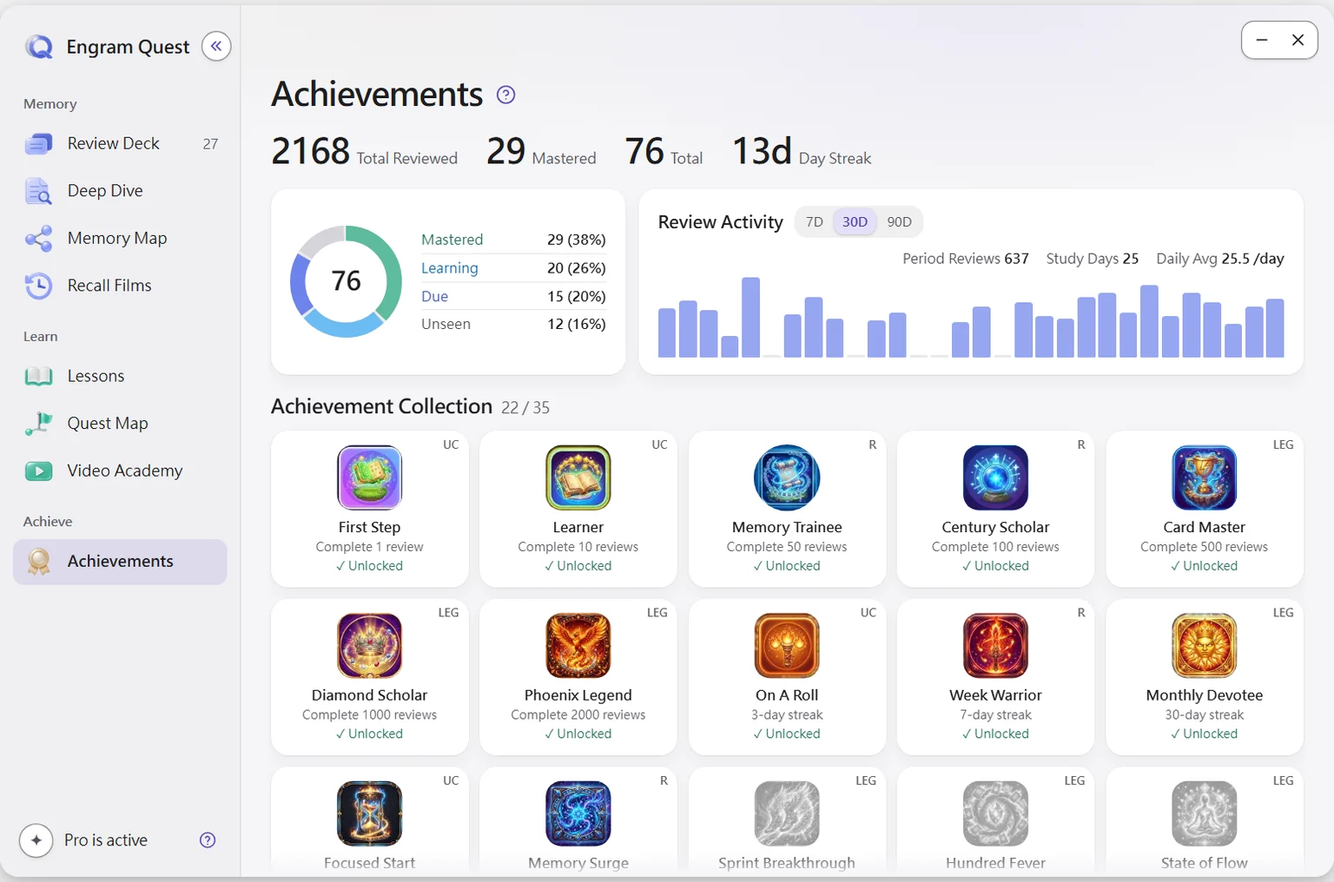
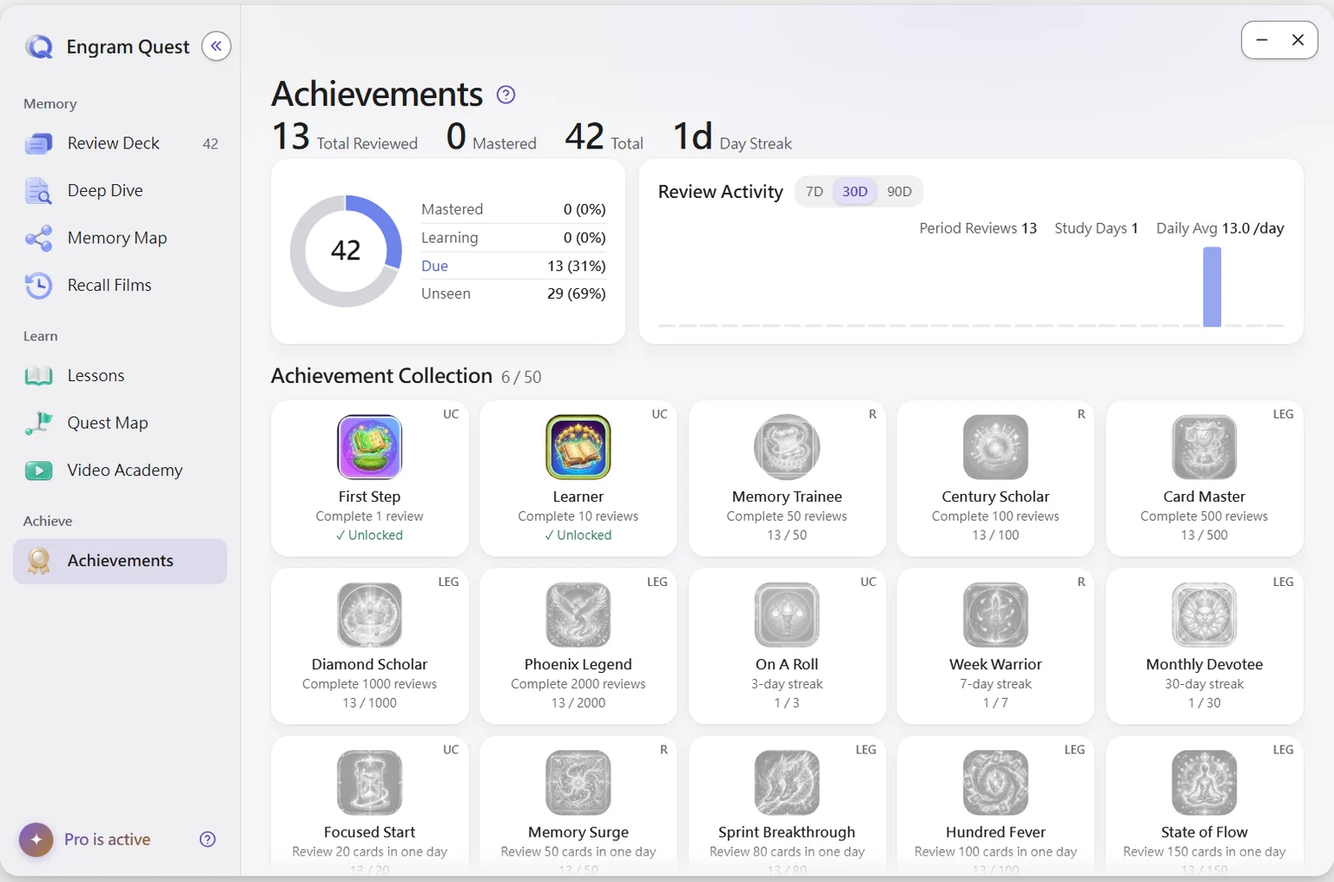
Achievements for videos, recall films, Deep Dives, Synapse and timed reviews
Fifteen new achievements count finished videos and series, recall films, three cleared quest maps,
lessons plus videos, and for Pro: Deep Dives marked done, a lesson from a Pro teacher, content opened
from Synapse, and timed review rounds finished. Pro achievements are labelled on their card.

diff --git a/src/hub/achievement.js b/src/hub/achievement.js
@@ -3,6 +3,9 @@ const I = require("obsidian");
 const { t: c } = require("../i18n");
 const { getReviewStatus } = require("../review/helpers");
 const { listCourses, courseProgress } = require("../lessons/data");
+const { listTopics, readEpisodic, videoProgress } = require("../videos/data");
+const { teacherOfVideo } = require("../videos/teachers");
+const { scanExplainers, readState } = require("../explainer/data");
 const ui = require("./ui");
 const { assetUrl } = require("../assets");
 
@@ -45,6 +48,21 @@ const ACHIEVEMENTS = [
   { id: "lesson_marathon",  icon: "assets/icons/lesson_marathon.webp",  rarity: "R",   threshold: 10,    field: "completedLessons",   nameKey: "ACH_LESSON_MARATHON_NAME",  descKey: "ACH_LESSON_MARATHON_DESC"  },
   { id: "first_quest_step", icon: "assets/icons/first_quest_step.webp", rarity: "UC",  threshold: 1,     field: "completedQuestNodes", nameKey: "ACH_FIRST_QUEST_STEP_NAME", descKey: "ACH_FIRST_QUEST_STEP_DESC" },
   { id: "quest_veteran",    icon: "assets/icons/quest_veteran.webp",    rarity: "R",   threshold: 10,    field: "completedQuestNodes", nameKey: "ACH_QUEST_VETERAN_NAME",    descKey: "ACH_QUEST_VETERAN_DESC"    },
+  { id: "first_video", icon: "assets/icons/first_video.webp", rarity: "UC", threshold: 1, field: "completedVideos", nameKey: "ACH_FIRST_VIDEO_NAME", descKey: "ACH_FIRST_VIDEO_DESC" },
+  { id: "video_trio", icon: "assets/icons/video_trio.webp", rarity: "R", threshold: 3, field: "maxVideosInSeries", nameKey: "ACH_VIDEO_TRIO_NAME", descKey: "ACH_VIDEO_TRIO_DESC" },
+  { id: "video_graduate", icon: "assets/icons/video_graduate.webp", rarity: "R", threshold: 1, field: "completedVideoSeries", nameKey: "ACH_VIDEO_GRADUATE_NAME", descKey: "ACH_VIDEO_GRADUATE_DESC" },
+  { id: "video_regular", icon: "assets/icons/video_regular.webp", rarity: "R", threshold: 10, field: "completedVideos", nameKey: "ACH_VIDEO_REGULAR_NAME", descKey: "ACH_VIDEO_REGULAR_DESC" },
+  { id: "video_explorer", icon: "assets/icons/video_explorer.webp", rarity: "R", threshold: 3, field: "startedVideoSeries", nameKey: "ACH_VIDEO_EXPLORER_NAME", descKey: "ACH_VIDEO_EXPLORER_DESC" },
+  { id: "first_recall_film", icon: "assets/icons/first_recall_film.webp", rarity: "UC", threshold: 1, field: "completedRecallFilms", nameKey: "ACH_FIRST_RECALL_FILM_NAME", descKey: "ACH_FIRST_RECALL_FILM_DESC" },
+  { id: "recall_collection", icon: "assets/icons/recall_collection.webp", rarity: "R", threshold: 3, field: "starredCompletedRecallFilms", nameKey: "ACH_RECALL_COLLECTION_NAME", descKey: "ACH_RECALL_COLLECTION_DESC" },
+  { id: "quest_trilogy", icon: "assets/icons/quest_trilogy.webp", rarity: "LEG", threshold: 3, field: "clearedQuestCount", nameKey: "ACH_QUEST_TRILOGY_NAME", descKey: "ACH_QUEST_TRILOGY_DESC" },
+  { id: "mixed_media", icon: "assets/icons/mixed_media.webp", rarity: "R", threshold: 2, field: "completedMediaTypes", nameKey: "ACH_MIXED_MEDIA_NAME", descKey: "ACH_MIXED_MEDIA_DESC" },
+  { id: "first_deep_dive", pro: true, icon: "assets/icons/first_deep_dive.webp", rarity: "UC", threshold: 1, field: "completedDeepDives", nameKey: "ACH_FIRST_DEEP_DIVE_NAME", descKey: "ACH_FIRST_DEEP_DIVE_DESC" },
+  { id: "deep_dive_five", pro: true, icon: "assets/icons/deep_dive_five.webp", rarity: "R", threshold: 5, field: "completedDeepDives", nameKey: "ACH_DEEP_DIVE_FIVE_NAME", descKey: "ACH_DEEP_DIVE_FIVE_DESC" },
+  { id: "pro_teacher_lesson", pro: true, icon: "assets/icons/pro_teacher_lesson.webp", rarity: "R", threshold: 1, field: "completedProTeacherVideos", nameKey: "ACH_PRO_TEACHER_LESSON_NAME", descKey: "ACH_PRO_TEACHER_LESSON_DESC" },
+  { id: "synapse_exploration", pro: true, icon: "assets/icons/synapse_exploration.webp", rarity: "UC", threshold: 1, field: "synapseContentOpens", nameKey: "ACH_SYNAPSE_EXPLORATION_NAME", descKey: "ACH_SYNAPSE_EXPLORATION_DESC" },
+  { id: "timebox_round", pro: true, icon: "assets/icons/timebox_round.webp", rarity: "UC", threshold: 1, field: "completedTimeboxes", nameKey: "ACH_TIMEBOX_ROUND_NAME", descKey: "ACH_TIMEBOX_ROUND_DESC" },
+  { id: "timebox_habit", pro: true, icon: "assets/icons/timebox_habit.webp", rarity: "R", threshold: 5, field: "completedTimeboxes", nameKey: "ACH_TIMEBOX_HABIT_NAME", descKey: "ACH_TIMEBOX_HABIT_DESC" },
 ];
 
 const RARITY_DARK = {
@@ -112,7 +130,7 @@ function openAchievementDetail(plugin, ach, val) {
   const modal = ui.themedModal(new I.Modal(plugin.app));
   modal.modalEl.addClass("lh-ach-modal");
   const el = modal.contentEl;
-  el.createEl("div", { cls: "lh-ach-rar", text: ach.rarity });
+  el.createEl("div", { cls: "lh-ach-rar", text: ach.pro ? `Pro · ${ach.rarity}` : ach.rarity });
   addAchievementIcon(el.createEl("div", { cls: "lh-ach-img" + achievementClass(ach, isUnlocked) }), plugin, ach);
   el.createEl("div", { cls: "lh-confirm-title", text: c(t, ach.nameKey) });
   el.createEl("div", { cls: "lh-confirm-body", text: c(t, ach.descKey) });
@@ -123,7 +141,12 @@ function openAchievementDetail(plugin, ach, val) {
   modal.open();
 }
 
-function buildAchievementEvalCtx(st = {}, decks = [], quests = [], memories = [], courses = []) {
+function playableVideos(meta) {
+  return [...new Map((meta?.videos || []).filter(video => video.id && video.file)
+    .map(video => [video.id, video])).values()];
+}
+
+function buildAchievementEvalCtx(st = {}, decks = [], quests = [], memories = [], courses = [], content = {}) {
   let masteredTotal = 0;
   const counts = { mastered: 0, learning: 0, due: 0, unseen: 0, total: 0 };
   for (const deck of decks) {
@@ -156,8 +179,35 @@ function buildAchievementEvalCtx(st = {}, decks = [], quests = [], memories = []
     return sum;
   }, 0);
 
+  const videoStats = {
+    completedVideos: 0, completedVideoSeries: 0, maxVideosInSeries: 0,
+    startedVideoSeries: 0, completedProTeacherVideos: 0,
+  };
+  for (const { meta } of content.videoTopics || []) {
+    const videos = playableVideos(meta);
+    const done = videos.filter(video => videoProgress(meta, video.id).completed);
+    videoStats.completedVideos += done.length;
+    videoStats.maxVideosInSeries = Math.max(videoStats.maxVideosInSeries, done.length);
+    if (done.length > 0) videoStats.startedVideoSeries++;
+    if (videos.length >= 2 && done.length === videos.length) videoStats.completedVideoSeries++;
+    videoStats.completedProTeacherVideos += done.filter(video =>
+      teacherOfVideo(video.cast?.teacher)?.tier === "pro").length;
+  }
+
+  const recall = content.recallMeta;
+  const finishedRecall = playableVideos(recall).map(video => videoProgress(recall, video.id))
+    .filter(progress => progress.completed);
+  const deepDiveIds = new Set((content.deepDivePages || []).map(page => page.id).filter(Boolean));
+
   return {
     evalCtx: {
+      ...videoStats,
+      completedRecallFilms: finishedRecall.length,
+      starredCompletedRecallFilms: finishedRecall.filter(progress => progress.starred).length,
+      completedMediaTypes: Number(completedLessons > 0) + Number(videoStats.completedVideos > 0),
+      completedDeepDives: [...deepDiveIds].filter(id => content.deepDiveState?.[id]?.completed).length,
+      synapseContentOpens: st.synapseContentOpens || 0,
+      completedTimeboxes: st.completedTimeboxes || 0,
       totalCardsReviewed: st.totalCardsReviewed || 0,
       longestStreak: st.longestStreak || 0,
       maxDaily,
@@ -180,18 +230,33 @@ function buildAchievementEvalCtx(st = {}, decks = [], quests = [], memories = []
   };
 }
 
-async function renderAchievementTab(containerEl, plugin, decks, quests = [], memories = [], courses = null) {
-  if (!courses) {
+async function renderAchievementTab(parent, plugin, decks, quests = [], memories = [], courses = null) {
+  const containerEl = parent.createDiv({ cls: "lh-achievement-page" });
+  const loading = containerEl.createDiv({ cls: "lh-loading" });
+  loading.createDiv({ cls: "lh-spinner" });
+  const adapter = plugin.app.vault.adapter;
+  const load = async (label, read, fallback) => {
     try {
-      courses = await listCourses(plugin.app.vault.adapter);
-    } catch (e) {
-      console.warn("EngramQuest: lesson achievements scan failed", e);
-      courses = [];
+      return await read(adapter);
+    } catch (error) {
+      console.warn(`EngramQuest: ${label} achievements scan failed`, error);
+      return fallback;
     }
-  }
+  };
+  const [courseItems, videoTopics, recall, deepDives, deepDiveState] = await Promise.all([
+    courses || load("lesson", listCourses, []),
+    load("video", listTopics, []),
+    load("recall film", readEpisodic, null),
+    load("Deep Dive", scanExplainers, null),
+    load("Deep Dive progress", readState, {}),
+  ]);
+  if (!containerEl.isConnected) return;
+  loading.remove();
   const t = plugin.settings;
   const { evalCtx, counts, dailyLog, totalReviewed, currentStreak } =
-    buildAchievementEvalCtx(t._stats || {}, decks, quests, memories, courses);
+    buildAchievementEvalCtx(t._stats || {}, decks, quests, memories, courseItems, {
+      videoTopics, recallMeta: recall?.meta, deepDivePages: deepDives?.pages, deepDiveState,
+    });
 
   if (!ui.isPhone()) ui.pageHeader(containerEl, { app: plugin.app, plugin }, { titleKey: "TAB_ACHIEVEMENT", guide: "achievement" });
   ui.metrics(containerEl, [
@@ -228,7 +293,7 @@ async function renderAchievementTab(containerEl, plugin, decks, quests = [], mem
     const val = evalCtx[ach.field] || 0;
     const isUnlocked = val >= ach.threshold;
     const card = grid.createEl("div", { cls: "lh-ac" + achievementClass(ach, isUnlocked), attr: { role: "button", tabindex: "0" } });
-    card.createEl("span", { cls: "lh-ach-rar", text: ach.rarity });
+    card.createEl("span", { cls: "lh-ach-rar", text: ach.pro ? `Pro · ${ach.rarity}` : ach.rarity });
     addAchievementIcon(card, plugin, ach);
     card.createEl("b", { text: c(t, ach.nameKey) });
     card.createEl("small", { text: c(t, ach.descKey) });

diff --git a/src/hub/modal.js b/src/hub/modal.js
@@ -79,7 +79,7 @@ _studyAll(){let t=this.plugin.settings,p=this.decks.flatMap(g=>g.cards).filter(g
 _resumeLink(parent){let t=this.plugin.settings,_rp=t._reviewProgress;if(!_rp||!_rp.deck)return null;let _left=((this.decks.find(dk=>dk.name===_rp.deck)||{}).cards||[]).filter(g=>{let E=$(g.srMeta);return E==="due"||E==="unseen"}).length;if(!_left)return null;let b=parent.createEl("button",{cls:"lh-link"});b.createEl("span",{text:`${c(t,"RESUME")} ${_rp.deck.split("/").pop()} · ${c(t,"RESUME_LEFT").replace("{count}",String(_left))}`});_uiIcon(b,"chevron");b.addEventListener("click",()=>{let _deck=this.decks.find(dk=>dk.name===_rp.deck);if(_deck)this._startDeckReview(_deck);});return b;}
 _maybeShowIntro(){return _maybeShowIntro(this);}
 _maybeShowGuide(tab){_maybeShowTabGuide(this,tab);}
-_minimize(){if(this._minimized)return;this._minimized=true;this.containerEl.classList.add("lh-minimized");try{this.app.keymap.popScope(this.scope);}catch(e){}if(this._fab)return;this._fab=ui.restoreButton(this.plugin,c(this.plugin.settings,"HUB_RESTORE"),()=>this._restore());}_restore(){if(!this._minimized)return;this._minimized=false;this.containerEl.classList.remove("lh-minimized");try{this.app.keymap.pushScope(this.scope);}catch(e){}if(this._fab){this._fab.remove();this._fab=null;}if(["quest","memory"].includes(this.activeTab)){this._libraryReady=null;this.loadLibrary().then(()=>{if(this._hubOpen)this.render();}).catch(err=>console.warn("EngramQuest: restore reload failed",err));}}onClose(){this._closed=true;this._hubOpen=false;if(this._stopLicenseWatch){this._stopLicenseWatch();this._stopLicenseWatch=null;}if(this._stopRailWatch){this._stopRailWatch();this._stopRailWatch=null;}if(this._guideTimer){window.clearTimeout(this._guideTimer);this._guideTimer=null;}if(this._fab){this._fab.remove();this._fab=null;}this._minimized=false;if(this._tagFilterCleanups){this._tagFilterCleanups.forEach(fn=>fn());this._tagFilterCleanups=[];}}_confirmDelete(item,type){const t=this.plugin.settings;let displayName,filesToTrash;if(type==='quest'){displayName=item.file.basename.replace(/-quest$/,'');filesToTrash=[item.file];}else if(type==='quest-package'){displayName=item.title||item.slug;filesToTrash=[];}else if(type==='memory'){displayName=item.baseName;filesToTrash=[item.file];}else if(type==='deck'){displayName=item.name;filesToTrash=[...new Set(item.cards.map(card=>card.notePath).filter(Boolean))];}let bodyText;if(type==='deck'){bodyText=c(t,'DELETE_CONFIRM_DECK').replace('{count}',String(filesToTrash.length)).replace('{cards}',String(item.cards.length));}else{bodyText=c(t,'DELETE_CONFIRM_FILE');}ui.confirmDialog(this.app,t,{title:c(t,'DELETE_CONFIRM_TITLE').replace('{name}',displayName),body:bodyText,onConfirm:async()=>{try{if(type==='deck'){await deleteDeckCards(this.app,item);}else if(type==='quest-package'){await deleteQuestPackage(this.app,item);}else{for(const f of filesToTrash){if(f)await this.app.fileManager.trashFile(f);}}if(type==='quest'){await trashQuestProgress(this.app,item.stateKey||(item.file&&item.file.path));}await (type==='deck'?this.loadDecks():this.loadLibrary());this.render();}catch(err){console.error("EngramQuest: delete failed",err);new I.Notice(c(t,"DELETE_FAILED"));try{await this.loadData();this.render();}catch(e){console.warn("EngramQuest: reload after a failed delete failed",e);}}}});}_startDeckReview(e){let t=this.plugin.settings,r=e.cards.filter(s=>{let l=$(s.srMeta);return l==="due"||l==="unseen"});const backToHub=async()=>{new n(this.app,this.plugin).open()};if(r.length===0){this.close(),new Q(this.app,e.cards,e.name,this.plugin,backToHub,{browseOnly:!0,noResume:!!e.noResume}).open();return}r.sort((s,l)=>($(s.srMeta)==="due"?0:1)-($(l.srMeta)==="due"?0:1));this.close();new Q(this.app,r,e.name,this.plugin,backToHub,{noResume:!!e.noResume}).open()}_sortItems(arr,key,completedLast){let cmp=key==="newest"?(a,b)=>b.ctime-a.ctime:key==="oldest"?(a,b)=>a.ctime-b.ctime:(a,b)=>a.file.basename.localeCompare(b.file.basename);if(completedLast)return arr.sort((a,b)=>(a.completed?1:0)-(b.completed?1:0)||cmp(a,b));return arr.sort(cmp)}_renderExplainerTab(e){_renderExplainerTabFn(e,this);}_renderLessonTab(e){_renderLessonTabFn(e,this);}_renderAchievementTab(e){_renderAchTabFn(e,this.plugin,this.decks,this.quests,this.memories,this.courses)}
+_minimize(){if(this._minimized)return;this._minimized=true;this.containerEl.classList.add("lh-minimized");try{this.app.keymap.popScope(this.scope);}catch(e){}if(this._fab)return;this._fab=ui.restoreButton(this.plugin,c(this.plugin.settings,"HUB_RESTORE"),()=>this._restore());}_restore(){if(!this._minimized)return;this._minimized=false;this.containerEl.classList.remove("lh-minimized");try{this.app.keymap.pushScope(this.scope);}catch(e){}if(this._fab){this._fab.remove();this._fab=null;}if(["quest","memory"].includes(this.activeTab)){this._libraryReady=null;this.loadLibrary().then(()=>{if(this._hubOpen)this.render();}).catch(err=>console.warn("EngramQuest: restore reload failed",err));}}onClose(){this._closed=true;this._hubOpen=false;if(this._stopLicenseWatch){this._stopLicenseWatch();this._stopLicenseWatch=null;}if(this._stopRailWatch){this._stopRailWatch();this._stopRailWatch=null;}if(this._guideTimer){window.clearTimeout(this._guideTimer);this._guideTimer=null;}if(this._fab){this._fab.remove();this._fab=null;}this._minimized=false;if(this._tagFilterCleanups){this._tagFilterCleanups.forEach(fn=>fn());this._tagFilterCleanups=[];}}_confirmDelete(item,type){const t=this.plugin.settings;let displayName,filesToTrash;if(type==='quest'){displayName=item.file.basename.replace(/-quest$/,'');filesToTrash=[item.file];}else if(type==='quest-package'){displayName=item.title||item.slug;filesToTrash=[];}else if(type==='memory'){displayName=item.baseName;filesToTrash=[item.file];}else if(type==='deck'){displayName=item.name;filesToTrash=[...new Set(item.cards.map(card=>card.notePath).filter(Boolean))];}let bodyText;if(type==='deck'){bodyText=c(t,'DELETE_CONFIRM_DECK').replace('{count}',String(filesToTrash.length)).replace('{cards}',String(item.cards.length));}else{bodyText=c(t,'DELETE_CONFIRM_FILE');}ui.confirmDialog(this.app,t,{title:c(t,'DELETE_CONFIRM_TITLE').replace('{name}',displayName),body:bodyText,onConfirm:async()=>{try{if(type==='deck'){await deleteDeckCards(this.app,item);}else if(type==='quest-package'){await deleteQuestPackage(this.app,item);}else{for(const f of filesToTrash){if(f)await this.app.fileManager.trashFile(f);}}if(type==='quest'){await trashQuestProgress(this.app,item.stateKey||(item.file&&item.file.path));}await (type==='deck'?this.loadDecks():this.loadLibrary());this.render();}catch(err){console.error("EngramQuest: delete failed",err);new I.Notice(c(t,"DELETE_FAILED"));try{await this.loadData();this.render();}catch(e){console.warn("EngramQuest: reload after a failed delete failed",e);}}}});}_startDeckReview(e){let t=this.plugin.settings,r=e.cards.filter(s=>{let l=$(s.srMeta);return l==="due"||l==="unseen"});const backToHub=async()=>{new n(this.app,this.plugin).open()};if(r.length===0){this.close(),new Q(this.app,e.cards,e.name,this.plugin,backToHub,{browseOnly:!0,noResume:!!e.noResume}).open();return}r.sort((s,l)=>($(s.srMeta)==="due"?0:1)-($(l.srMeta)==="due"?0:1));this.close();new Q(this.app,r,e.name,this.plugin,backToHub,{noResume:!!e.noResume}).open()}_sortItems(arr,key,completedLast){let cmp=key==="newest"?(a,b)=>b.ctime-a.ctime:key==="oldest"?(a,b)=>a.ctime-b.ctime:(a,b)=>a.file.basename.localeCompare(b.file.basename);if(completedLast)return arr.sort((a,b)=>(a.completed?1:0)-(b.completed?1:0)||cmp(a,b));return arr.sort(cmp)}_renderExplainerTab(e){_renderExplainerTabFn(e,this);}_renderLessonTab(e){_renderLessonTabFn(e,this);}_renderAchievementTab(e){_renderAchTabFn(e,this.plugin,this.decks,this.quests,this.memories,this.courses).catch(err=>console.error("EngramQuest: achievement tab render failed",err))}
 _buildTree(items, getPathFn) {
     let root = { name: "Root", children: {}, items: [] };
     items.forEach(item => {

diff --git a/src/i18n/index.js b/src/i18n/index.js
@@ -686,6 +686,36 @@ const DICT = {
     ACH_PERFECT_SESSION_DESC: "20 correct cards in a row without Again",
     ACH_HUNDRED_AGAIN_NAME: "Rising to the Challenge",
     ACH_HUNDRED_AGAIN_DESC: "Tap Again 100 times total",
+    ACH_FIRST_VIDEO_NAME: "First Video Lesson",
+    ACH_FIRST_VIDEO_DESC: "Complete one Video Academy video",
+    ACH_VIDEO_TRIO_NAME: "Three Lessons In",
+    ACH_VIDEO_TRIO_DESC: "Complete 3 videos in one series",
+    ACH_VIDEO_GRADUATE_NAME: "Series Graduate",
+    ACH_VIDEO_GRADUATE_DESC: "Complete every video in a series with at least 2 videos",
+    ACH_VIDEO_REGULAR_NAME: "Video Regular",
+    ACH_VIDEO_REGULAR_DESC: "Complete 10 Video Academy videos",
+    ACH_VIDEO_EXPLORER_NAME: "Topic Explorer",
+    ACH_VIDEO_EXPLORER_DESC: "Complete at least one video in each of 3 series",
+    ACH_FIRST_RECALL_FILM_NAME: "Back to the Scene",
+    ACH_FIRST_RECALL_FILM_DESC: "Complete one Recall Film",
+    ACH_RECALL_COLLECTION_NAME: "Memory Collection",
+    ACH_RECALL_COLLECTION_DESC: "Complete and star 3 Recall Films",
+    ACH_QUEST_TRILOGY_NAME: "Three-Map Expedition",
+    ACH_QUEST_TRILOGY_DESC: "Clear 3 different Quest Maps",
+    ACH_MIXED_MEDIA_NAME: "Across Formats",
+    ACH_MIXED_MEDIA_DESC: "Complete one lesson and one Video Academy video",
+    ACH_FIRST_DEEP_DIVE_NAME: "First Deep Dive",
+    ACH_FIRST_DEEP_DIVE_DESC: "Mark one Deep Dive complete",
+    ACH_DEEP_DIVE_FIVE_NAME: "Under the Surface",
+    ACH_DEEP_DIVE_FIVE_DESC: "Mark 5 different Deep Dives complete",
+    ACH_PRO_TEACHER_LESSON_NAME: "A Masterclass",
+    ACH_PRO_TEACHER_LESSON_DESC: "Complete a Video Academy video taught by a built-in Pro teacher",
+    ACH_SYNAPSE_EXPLORATION_NAME: "Follow the Link",
+    ACH_SYNAPSE_EXPLORATION_DESC: "Open related content once through Synapse",
+    ACH_TIMEBOX_ROUND_NAME: "A Focused Round",
+    ACH_TIMEBOX_ROUND_DESC: "Finish one time-boxed review with at least one card rated",
+    ACH_TIMEBOX_HABIT_NAME: "Focused Habit",
+    ACH_TIMEBOX_HABIT_DESC: "Finish 5 time-boxed reviews with at least one card rated in each",
     ACH_FIRST_LESSON_NAME: "First Lesson",
     ACH_FIRST_LESSON_DESC: "Complete 1 lesson",
     ACH_COURSE_FINISHER_NAME: "Course Finisher",
@@ -1383,6 +1413,36 @@ const DICT = {
     ACH_PERFECT_SESSION_DESC: "單次複習連續 20 張未選「重來」",
     ACH_HUNDRED_AGAIN_NAME: "浴火重生",
     ACH_HUNDRED_AGAIN_DESC: "累計按下「重來」達 100 次",
+    ACH_FIRST_VIDEO_NAME: "第一堂影片課",
+    ACH_FIRST_VIDEO_DESC: "完成 1 支影片學院影片",
+    ACH_VIDEO_TRIO_NAME: "連看三課",
+    ACH_VIDEO_TRIO_DESC: "在同一系列完成 3 支不同影片",
+    ACH_VIDEO_GRADUATE_NAME: "系列結業",
+    ACH_VIDEO_GRADUATE_DESC: "完成一個至少有 2 支可播放影片的系列",
+    ACH_VIDEO_REGULAR_NAME: "影片常客",
+    ACH_VIDEO_REGULAR_DESC: "完成 10 支不同的影片學院影片",
+    ACH_VIDEO_EXPLORER_NAME: "主題探索者",
+    ACH_VIDEO_EXPLORER_DESC: "在 3 個不同系列各完成至少 1 支影片",
+    ACH_FIRST_RECALL_FILM_NAME: "重返現場",
+    ACH_FIRST_RECALL_FILM_DESC: "完成 1 支情境回顧影片",
+    ACH_RECALL_COLLECTION_NAME: "回憶選集",
+    ACH_RECALL_COLLECTION_DESC: "完成並收藏 3 支不同的情境回顧影片",
+    ACH_QUEST_TRILOGY_NAME: "三圖征途",
+    ACH_QUEST_TRILOGY_DESC: "通關 3 張不同的 Quest Map",
+    ACH_MIXED_MEDIA_NAME: "跨媒介學習",
+    ACH_MIXED_MEDIA_DESC: "完成 1 堂教材與 1 支影片學院影片",
+    ACH_FIRST_DEEP_DIVE_NAME: "讀懂一題",
+    ACH_FIRST_DEEP_DIVE_DESC: "將 1 篇深入解析標記為完成",
+    ACH_DEEP_DIVE_FIVE_NAME: "抽絲剝繭",
+    ACH_DEEP_DIVE_FIVE_DESC: "將 5 篇不同的深入解析標記為完成",
+    ACH_PRO_TEACHER_LESSON_NAME: "名師開講",
+    ACH_PRO_TEACHER_LESSON_DESC: "完成 1 支由內建 Pro 老師授課的影片學院影片",
+    ACH_SYNAPSE_EXPLORATION_NAME: "沿線探索",
+    ACH_SYNAPSE_EXPLORATION_DESC: "透過 Synapse 成功開啟 1 次關聯內容",
+    ACH_TIMEBOX_ROUND_NAME: "專注一輪",
+    ACH_TIMEBOX_ROUND_DESC: "完成 1 次限時複習，至少評分 1 張卡",
+    ACH_TIMEBOX_HABIT_NAME: "專注成習",
+    ACH_TIMEBOX_HABIT_DESC: "完成 5 次限時複習，每次至少評分 1 張卡",
     ACH_FIRST_LESSON_NAME: "第一堂課",
     ACH_FIRST_LESSON_DESC: "完成 1 堂課",
     ACH_COURSE_FINISHER_NAME: "課程完走者",

diff --git a/tests/achievement-stats.test.js b/tests/achievement-stats.test.js
@@ -1,5 +1,7 @@
 import { describe, expect, it } from "vitest";
 import achievement from "../src/hub/achievement";
+import teachers from "../src/videos/teachers";
+import review from "../src/review/session";
 
 const { buildAchievementEvalCtx, ACHIEVEMENTS } = achievement;
 
@@ -55,5 +57,65 @@ describe("achievement derived stats", () => {
         expect.objectContaining({ id: "quest_veteran", field: "completedQuestNodes", threshold: 10 }),
       ])
     );
+  });
+});
+
+describe("video and Pro achievements", () => {
+  const video = (id, options = {}) => ({ id, file: id + ".mp4", ...options });
+  const done = { completed: true };
+  const topic = (videos, progress) => ({ meta: { videos, progress } });
+  const proTeacher = teachers.TEACHERS.find(teacher => teacher.tier === "pro").id;
+
+  it("counts saved progress once per playable video and distinguishes eligible series", () => {
+    const videoTopics = [
+      topic([video("a", { cast: { teacher: proTeacher } }), video("a", { cast: { teacher: proTeacher } }),
+        video("b"), video("c", { file: null })], { a: done, b: done, c: done }),
+      topic([video("a", { cast: { teacher: "custom:local" } })], { a: done }),
+      topic([video("a"), video("b")], { a: done, b: { position: 50 } }),
+    ];
+    const recallMeta = {
+      videos: [video("a"), video("b"), video("c"), video("d", { file: null })],
+      progress: { a: { ...done, starred: true }, b: { starred: true }, c: done, d: done, orphan: done },
+    };
+    const courses = [{ meta: { lessons: [{ id: "a" }], completion: { a: done } } }];
+    const content = {
+      videoTopics, recallMeta, deepDivePages: [{ id: "a" }, { id: "a" }, { id: "b" }],
+      deepDiveState: { a: done, b: { viewed: true }, orphan: done },
+    };
+    const { evalCtx } = buildAchievementEvalCtx({ synapseContentOpens: 1, completedTimeboxes: 5 },
+      [], [{ completed: true }, { completed: true }, { completed: true }], [], courses, content);
+    expect(evalCtx).toMatchObject({
+      completedVideos: 4, completedVideoSeries: 1, maxVideosInSeries: 2, startedVideoSeries: 3,
+      completedProTeacherVideos: 1, completedRecallFilms: 2, starredCompletedRecallFilms: 1,
+      completedDeepDives: 1, completedMediaTypes: 2, clearedQuestCount: 3,
+      synapseContentOpens: 1, completedTimeboxes: 5,
+    });
+  });
+
+  it("has 50 unique achievements with six new Pro badges and defaults legacy stats to zero", () => {
+    const { evalCtx } = buildAchievementEvalCtx();
+    expect(ACHIEVEMENTS).toHaveLength(50);
+    expect(new Set(ACHIEVEMENTS.map(achievement => achievement.id)).size).toBe(50);
+    expect(ACHIEVEMENTS.filter(achievement => achievement.pro)).toHaveLength(6);
+    expect(ACHIEVEMENTS.every(achievement => Object.hasOwn(evalCtx, achievement.field))).toBe(true);
+    expect(evalCtx).toMatchObject({ completedVideos: 0, completedDeepDives: 0, synapseContentOpens: 0, completedTimeboxes: 0 });
+  });
+
+  it("counts a rated timebox once, excluding regular and empty reviews", () => {
+    let saves = 0;
+    const session = {
+      plugin: { settings: { _stats: { totalCardsReviewed: 42 } } },
+      _persist: () => { saves++; },
+    };
+    const record = () => review.ReviewSessionModal.prototype._recordTimeboxCompletion.call(session);
+    record();
+    session._timeboxMinutes = 5;
+    record();
+    expect(saves).toBe(0);
+    session._timeboxRatedCard = true;
+    record();
+    record();
+    expect(session.plugin.settings._stats).toEqual({ totalCardsReviewed: 42, completedTimeboxes: 1 });
+    expect(saves).toBe(1);
   });
 });

diff --git a/src/review/session.js b/src/review/session.js
@@ -204,6 +204,8 @@ function buildEvalContext(st) {
     maxDaily:           vals.length > 0 ? Math.max(...vals) : 0,
     perfectSessions:    (st && st.perfectSessions)    || 0,
     totalAgainCount:    (st && st.totalAgainCount)    || 0,
+    synapseContentOpens: (st && st.synapseContentOpens) || 0,
+    completedTimeboxes: (st && st.completedTimeboxes) || 0,
   };
 }
 
@@ -224,6 +226,8 @@ var Q=class extends I.Modal{
     this._timerIntervalId=null;
     this._timerEl=null;
     this._timeboxExpired=false;
+    this._timeboxRatedCard=false;
+    this._timeboxCounted=false;
   }
 
   onOpen(){
@@ -248,6 +252,7 @@ var Q=class extends I.Modal{
     const remaining=this._timeboxMinutes*60-elapsed;
     if(remaining<=0&&!this._timeboxExpired){
       this._timeboxExpired=true;
+      this._recordTimeboxCompletion();
       window.clearInterval(this._timerIntervalId); this._timerIntervalId=null;
     }
     if(!this._timerEl||!this._timerEl.isConnected) return;
@@ -292,7 +297,11 @@ var Q=class extends I.Modal{
       openers:{
         // A note opens in Obsidian and the session steps aside so it can be read; the rest open in
         // the viewer the Hub already uses for them, on top of the session.
-        note:(path)=>{ this.app.workspace.openLinkText(path,"",false); this._minimize(); },
+        note:async(path)=>{
+          if (!this.app.vault.getAbstractFileByPath(path)) throw new Error("Synapse note is missing");
+          await this.app.workspace.openLinkText(path,"",false);
+          this._minimize();
+        },
         lesson:({slug,meta,lesson,onClose})=>{
           if(lesson.type==="canvas") new CanvasLessonModal(this.app,this.plugin,slug,meta,lesson,onClose,this).open();
           else new LessonViewerModal(this.app,this.plugin,slug,meta,lesson,onClose).open();
@@ -333,8 +342,17 @@ var Q=class extends I.Modal{
     this._persist();
   }
 
+  _recordTimeboxCompletion(){
+    if(!this._timeboxMinutes||!this._timeboxRatedCard||this._timeboxCounted) return;
+    this._timeboxCounted=true;
+    const stats=this.plugin.settings._stats||={};
+    stats.completedTimeboxes=(stats.completedTimeboxes||0)+1;
+    this._persist();
+  }
+
   // Task 6: completion screen
   _renderComplete(){
+    this._recordTimeboxCompletion();
     let t=this.plugin.settings;
     if(!this.noResume){
       delete this.plugin.settings._reviewProgress;
@@ -765,6 +783,7 @@ var Q=class extends I.Modal{
                 new I.Notice(c(t,"RATING_SAVE_FAILED"));
               });
             }
+            this._timeboxRatedCard=true;
             // Stats tracking for achievement system
             try {
               let _st=recordReviewDay(this.plugin.settings._stats);
@@ -895,7 +914,15 @@ var Q=class extends I.Modal{
           else el.textContent=c(t,"SYNAPSE_NO_BACK");
         },
         onSelect:(node)=>{
-          if(node.type!=="card"){ this._synapse.open(node,()=>{ if(parent.isConnected) refresh(); }); return; }
+          if(node.type!=="card"){
+            this._synapse.open(node,()=>{ if(parent.isConnected) refresh(); }).then(opened=>{
+              if(!opened) return;
+              const stats=this.plugin.settings._stats||={};
+              stats.synapseContentOpens=(stats.synapseContentOpens||0)+1;
+              this._persist();
+            });
+            return;
+          }
           if(node.locked) return;
           this._synapseExpandedId=this._synapseExpandedId===node.id?null:node.id;
           refresh();

diff --git a/src/styles/hub-pages.js b/src/styles/hub-pages.js
@@ -467,6 +467,7 @@ body.is-phone .lh-hd:has(.lh-hd-right) { align-items:center; }
 `;
 
 const achievements = `
+.lh-achievement-page { display:flex; flex-direction:column; flex:1; min-height:0; }
 .lh-ach-charts { display:grid; grid-template-columns:330px minmax(0,1fr); gap:12px; padding:0 0 12px; }
 .lh-ach-fam { display:flex; align-items:center; gap:18px; }
 .lh-ach-fam .lh-dn { margin:0; flex:none; }

diff --git a/src/review/synapse-session.js b/src/review/synapse-session.js
@@ -93,7 +93,7 @@ class SynapseMapSession {
         if (redraw) redraw();
       };
       if (node.type === "note") {
-        this.openers.note(node.ref);
+        await this.openers.note(node.ref);
       } else if (node.type === "lesson") {
         const meta = await loadCourse(this.adapter, entry.slug);
         const lesson = meta && meta.lessons.find((l) => l.id === entry.lessonId);
